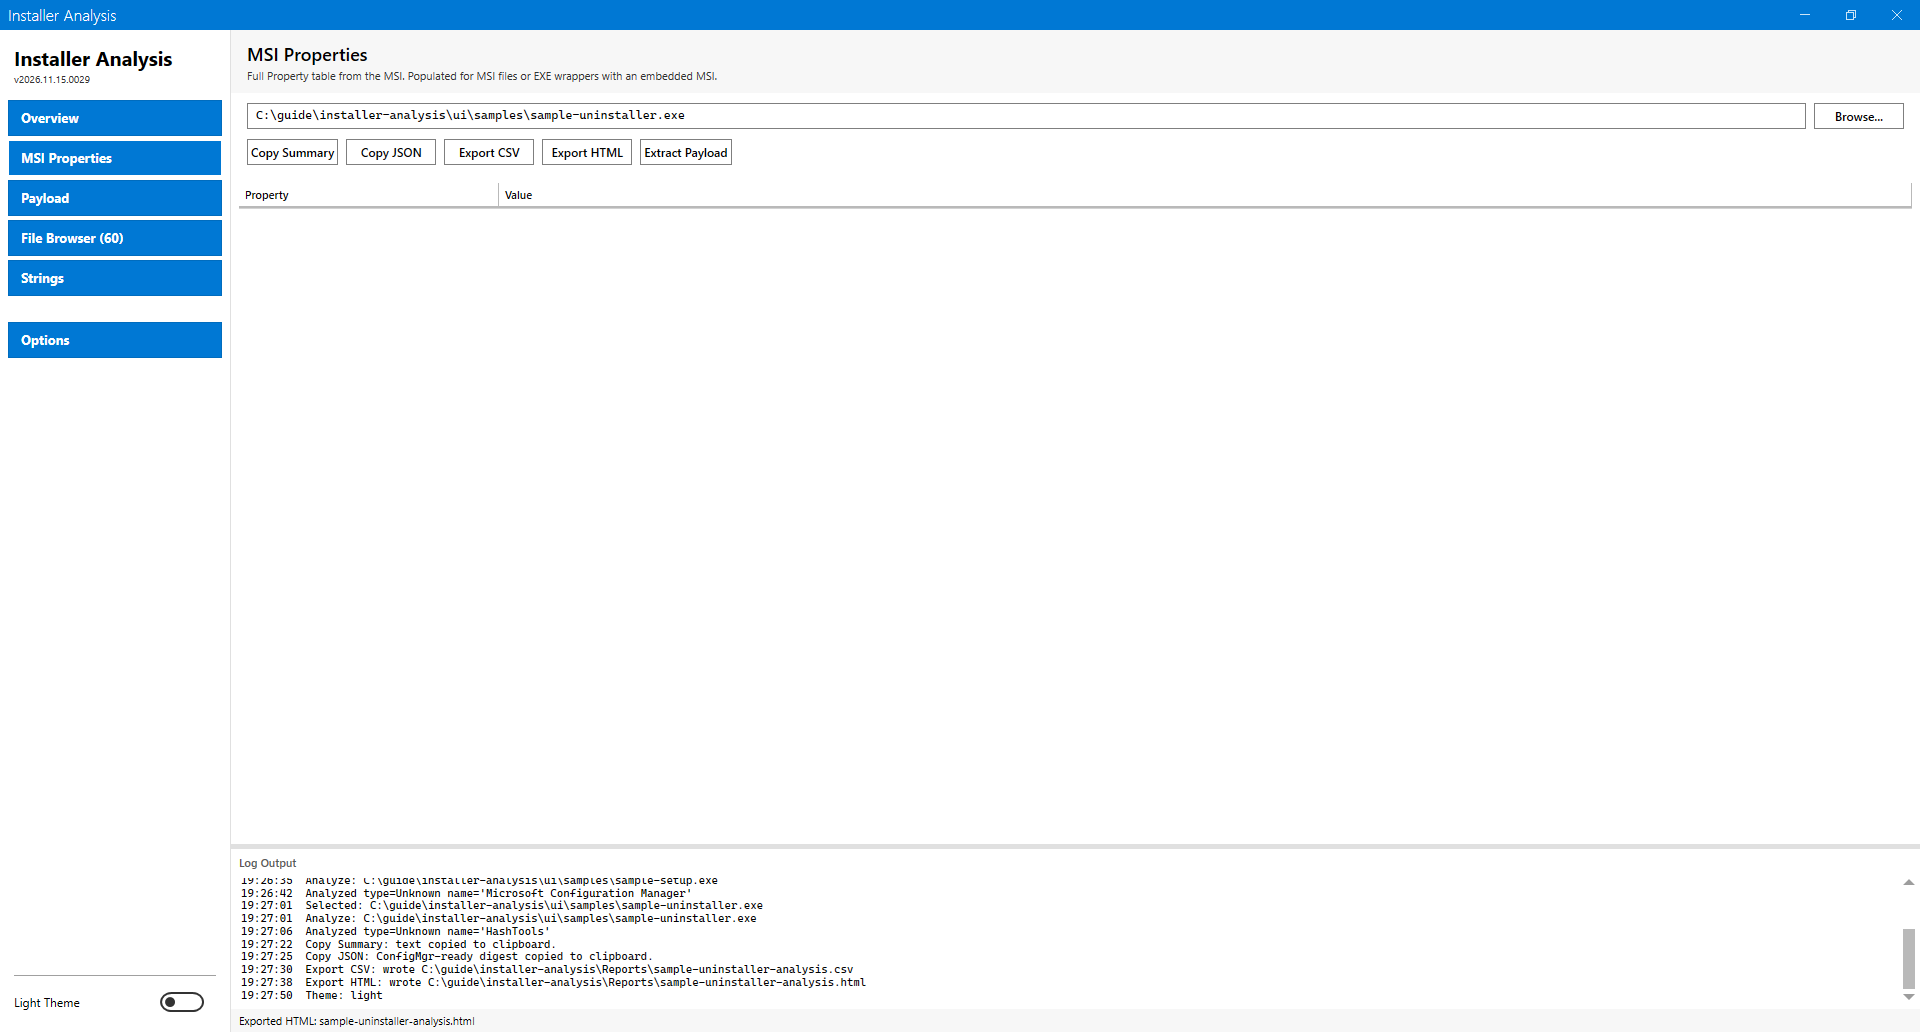
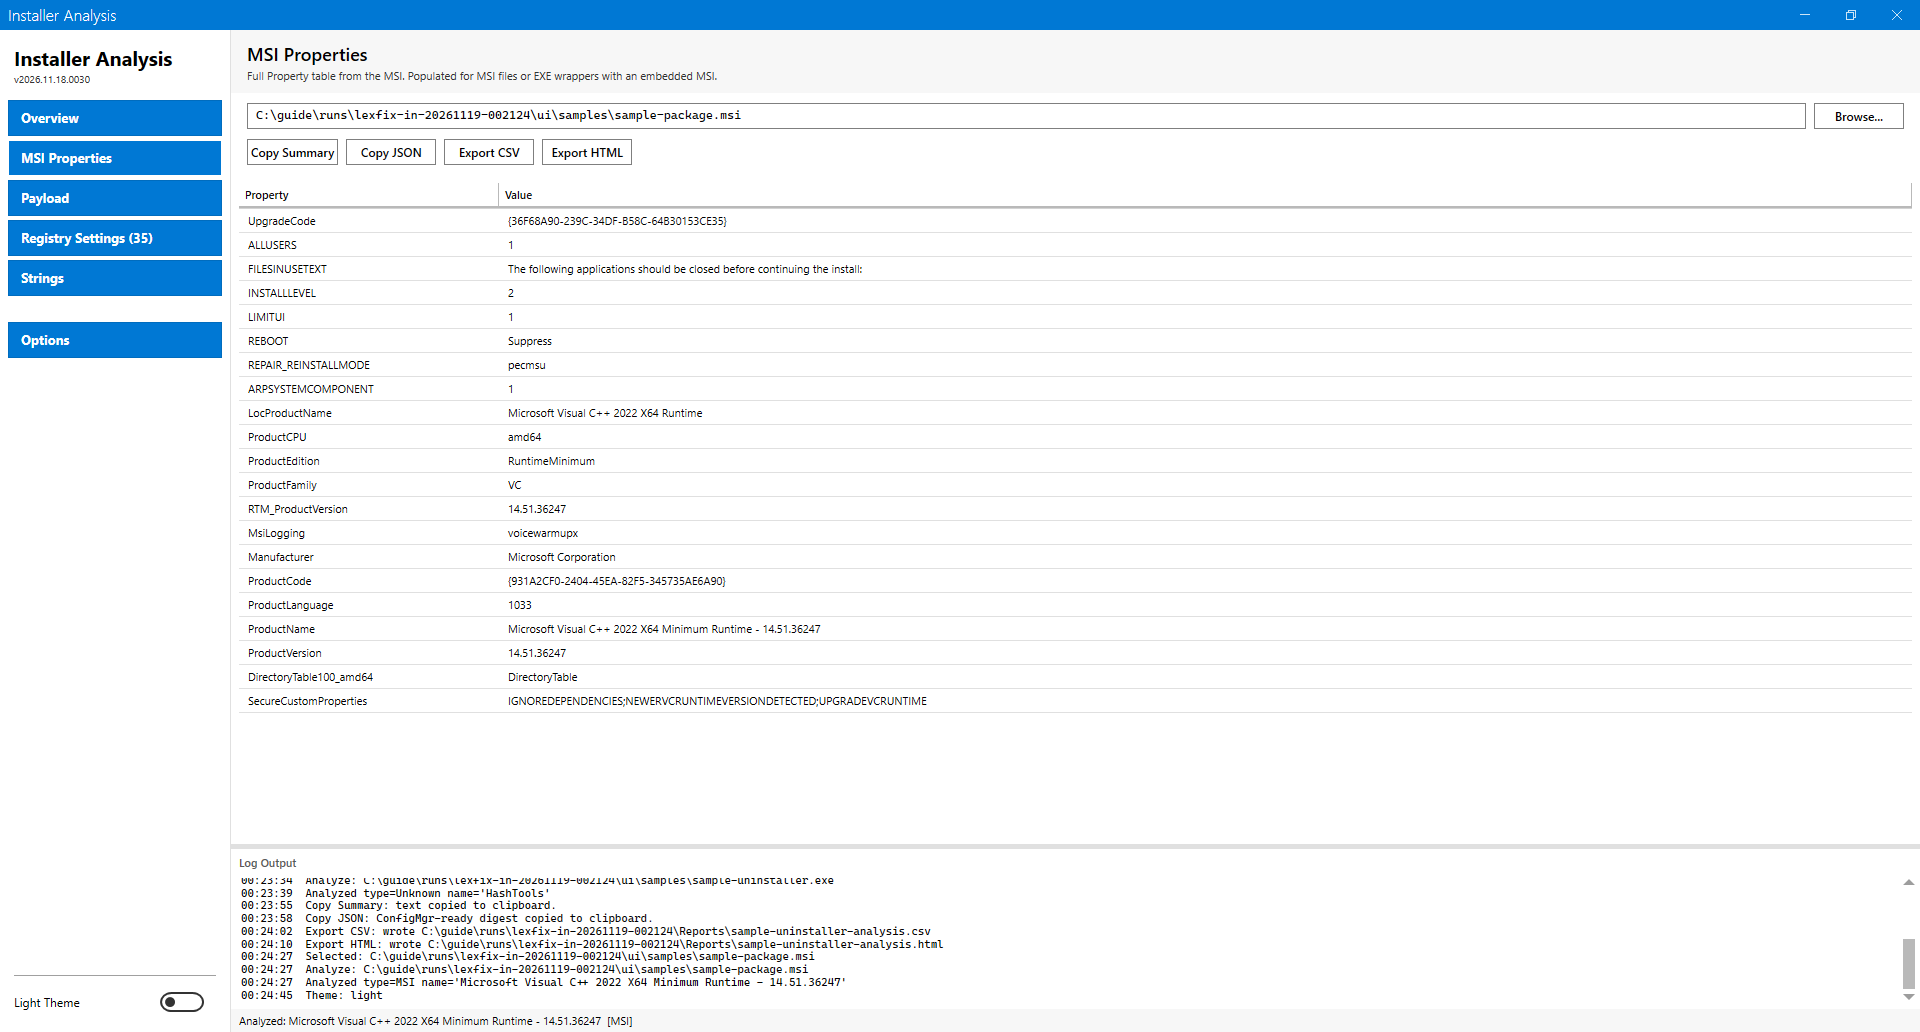
Retake the light theme images of the guide with the MSI sample (#36)

diff --git a/CHANGELOG.md b/CHANGELOG.md
@@ -9,6 +9,7 @@
 
 ### Fixed
 
+- The light theme images of the guide show the MSI sample, as the dark images do. The MSI Properties image showed an empty table, because the capture analyzed the uninstaller before it switched the theme. The images show the current version.
 - The guide capture tool stops only the processes that it started, by process id. It no longer stops PowerShell processes by command-line pattern, which could end the window of another session. A new guard test fails when a tool script stops a process by a pattern.
 
 ## [2026.11.18.0030] - 2026-11-18
@@ -26,7 +27,7 @@
 
 - Add density, vacant space and guide image tests for the 1080p layout.
 
-### Fixed
+### Fixed
 
 - Draw grid column headers in the case of their text (Title Case), not in capitals. A window test reads the drawn header text of every view in both themes.
 
